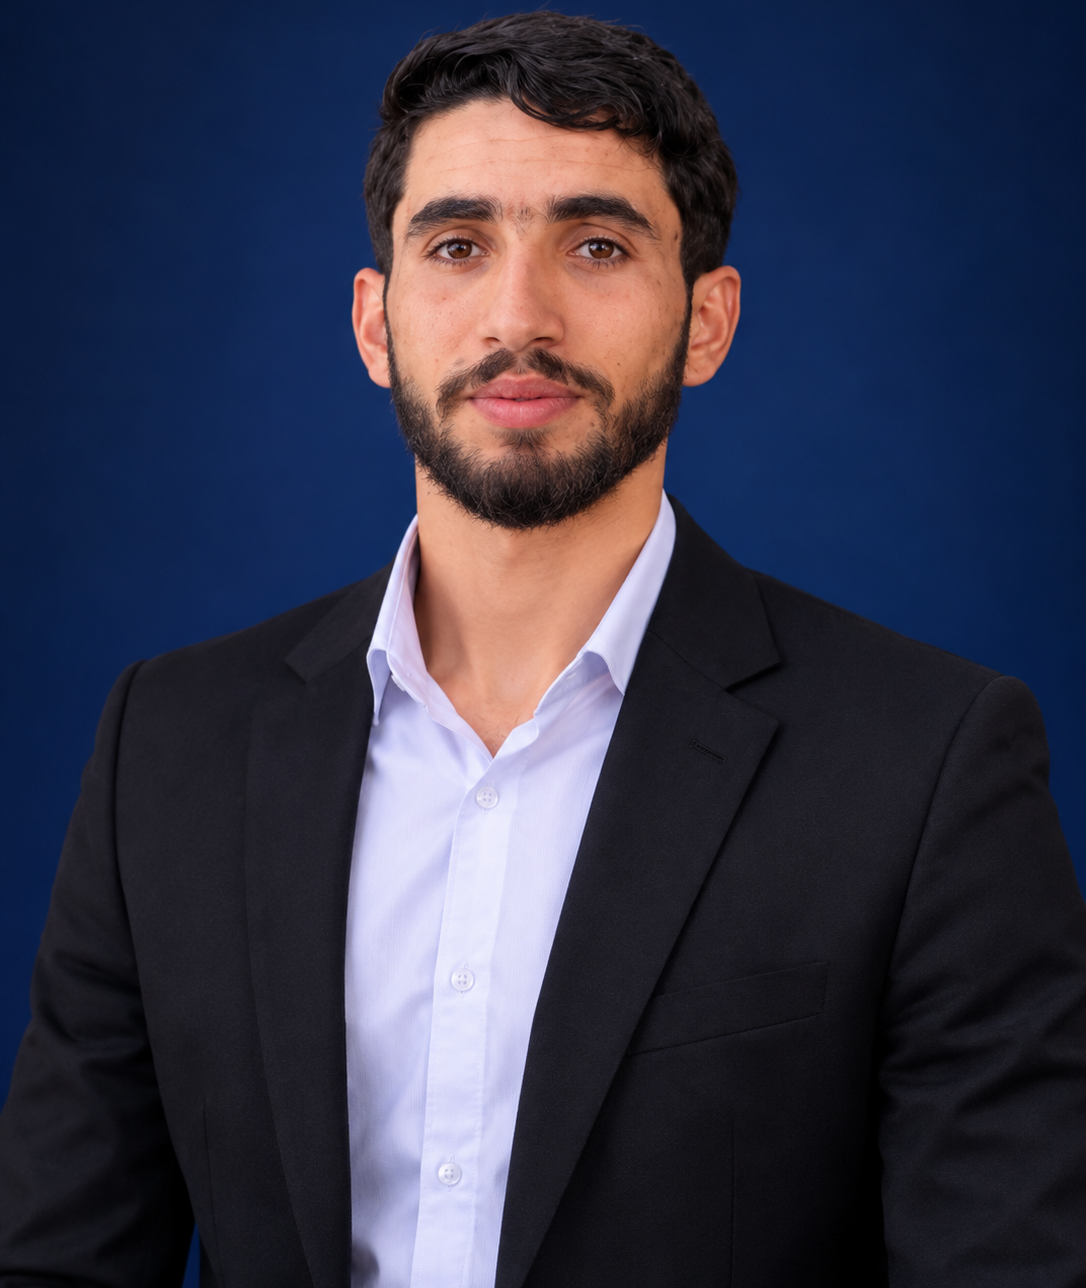
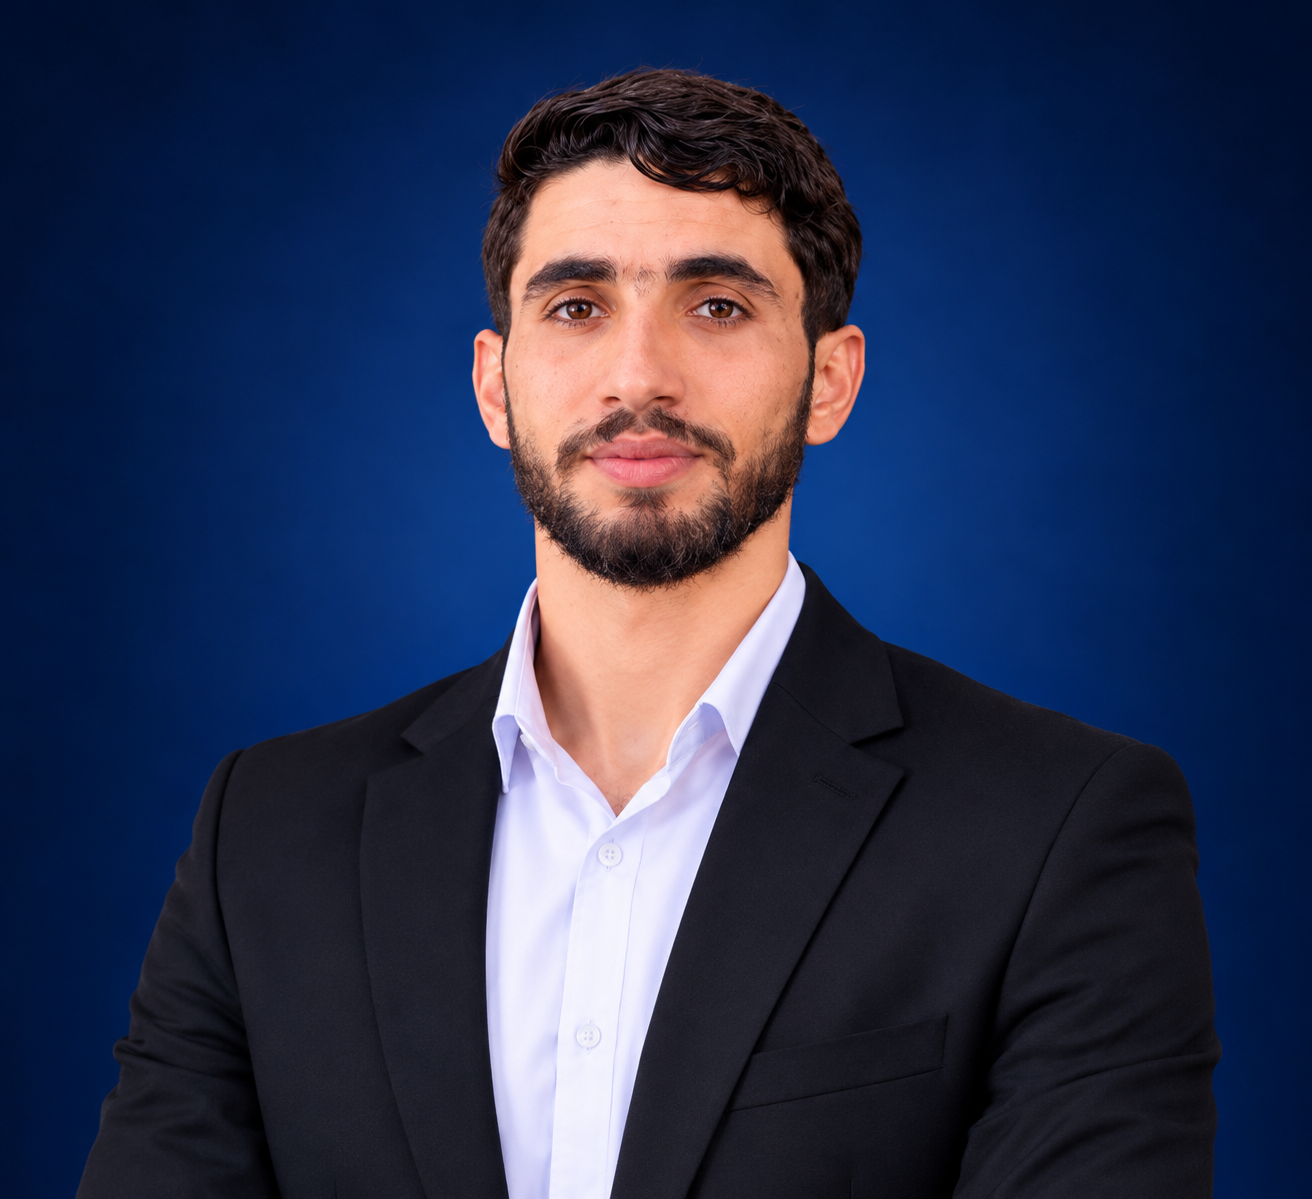
Update portfolio projects and images

diff --git a/src/components/Projects.js b/src/components/Projects.js
@@ -51,6 +51,19 @@ const translations = {
           'Rapports et suivi des activités',
         ],
       },
+
+      {
+        title: 'Dariva Home & Living',
+        category: 'E-commerce',
+        description:
+          'Plateforme e-commerce dédiée à l’univers de la maison et de la décoration, offrant une expérience de navigation moderne pour découvrir les produits et aménager son intérieur.',
+        features: [
+          'Catalogue de produits',
+          'Présentation des collections',
+          'Interface moderne et élégante',
+          'Navigation intuitive',
+        ],
+      },
       {
         title: 'Personal Portfolio',
         category: 'Portfolio Web',
@@ -65,18 +78,6 @@ const translations = {
           'Design adaptatif',
         ],
       },
-      {
-  title: 'Dariva Home & Living',
-  category: 'E-commerce',
-  description:
-    'Plateforme e-commerce dédiée à l’univers de la maison et de la décoration, offrant une expérience de navigation moderne pour découvrir les produits et aménager son intérieur.',
-  features: [
-    'Catalogue de produits',
-    'Présentation des collections',
-    'Interface moderne et élégante',
-    'Navigation intuitive',
-  ],
-},
       {
         title: 'StockManager',
         category: 'Application Full Stack',
@@ -135,6 +136,19 @@ const translations = {
           'Reports and activity tracking',
         ],
       },
+
+      {
+        title: 'Dariva Home & Living',
+        category: 'E-commerce Website',
+        description:
+          'An e-commerce platform dedicated to home living and decoration, offering a modern browsing experience to explore products and discover interior design inspiration.',
+        features: [
+          'Product catalog',
+          'Collection presentation',
+          'Modern and elegant interface',
+          'Intuitive navigation',
+        ],
+      },
       {
         title: 'Personal Portfolio',
         category: 'Web Portfolio',
@@ -149,18 +163,6 @@ const translations = {
           'Responsive design',
         ],
       },
-    {
-  title: 'Dariva Home & Living',
-  category: 'E-commerce Website',
-  description:
-    'An e-commerce platform dedicated to home living and decoration, offering a modern browsing experience to explore products and discover interior design inspiration.',
-  features: [
-    'Product catalog',
-    'Collection presentation',
-    'Modern and elegant interface',
-    'Intuitive navigation',
-  ],
-},
       {
         title: 'StockManager',
         category: 'Full Stack Application',
@@ -200,8 +202,18 @@ const projects = [
     live: '',
     featured: true,
   },
+
   {
     id: 2,
+    image: darivaImage,
+    tech: ['React', 'Vite', 'JavaScript', 'Tailwind CSS'],
+    icon: <FaHome />,
+    github: 'https://github.com/kamouni13/dariva-home-living',
+    live: 'https://dariva-home-living.vercel.app/',
+    featured: false,
+  },
+  {
+    id: 3,
     image: myportfolioImage,
     tech: ['React', 'JavaScript', 'Tailwind CSS', 'Framer Motion'],
     icon: <FaLaptopCode />,
@@ -209,15 +221,6 @@ const projects = [
     live: 'https://my-portfolio-liart-five-85.vercel.app/',
     featured: false,
   },
- {
-  id: 3,
-  image: darivaImage,
-  tech: ['React', 'Vite', 'JavaScript', 'Tailwind CSS'],
-  icon: <FaHome />,
-  github: 'https://github.com/kamouni13/dariva-home-living',
-  live: 'https://dariva-home-living.vercel.app/',
-  featured: false,
-},
   {
     id: 4,
     image:
@@ -434,7 +437,7 @@ const Projects = () => {
                             <span className="mt-1 shrink-0 text-cyan-600 dark:text-cyan-400">
                               {
                                 featureIcons[
-                                  featureIndex % featureIcons.length
+                                featureIndex % featureIcons.length
                                 ]
                               }
                             </span>

diff --git a/src/components/Hero.js b/src/components/Hero.js
@@ -37,7 +37,6 @@ const content = {
     cv: 'Télécharger mon CV',
     contact: 'Me contacter',
     socials: 'Retrouvez-moi sur',
-    available: 'Ouvert aux opportunités',
     role: 'Développement Web Full Stack',
     tech: 'Technologies',
   },
@@ -60,7 +59,7 @@ const content = {
     cv: 'Download my CV',
     contact: 'Contact me',
     socials: 'Find me on',
-    available: 'Open to opportunities',
+ 
     role: 'Full Stack Web Development',
     tech: 'Technologies',
   },
@@ -141,19 +140,6 @@ const Hero = () => {
           transition={{ duration: 0.75, ease: 'easeOut' }}
           className="relative z-10 text-left"
         >
-          {/* Availability status */}
-          <motion.div
-            initial={{ opacity: 0, y: 10 }}
-            animate={{ opacity: 1, y: 0 }}
-            transition={{ delay: 0.2, duration: 0.5 }}
-            className="mb-7 inline-flex items-center gap-2.5 rounded-full border border-emerald-500/20 bg-emerald-500/10 px-4 py-2 text-sm font-medium text-emerald-700 dark:border-emerald-400/20 dark:bg-emerald-400/10 dark:text-emerald-300"
-          >
-            <span className="relative flex h-2.5 w-2.5">
-              <span className="absolute inline-flex h-full w-full animate-ping rounded-full bg-[#10B981] opacity-40" />
-              <span className="relative inline-flex h-2.5 w-2.5 rounded-full bg-[#10B981]" />
-            </span>
-            {t.available}
-          </motion.div>
 
           <p className="mb-3 text-lg font-medium tracking-wide text-[#007DBD] dark:text-cyan-300 sm:text-xl">
             {t.greeting}
